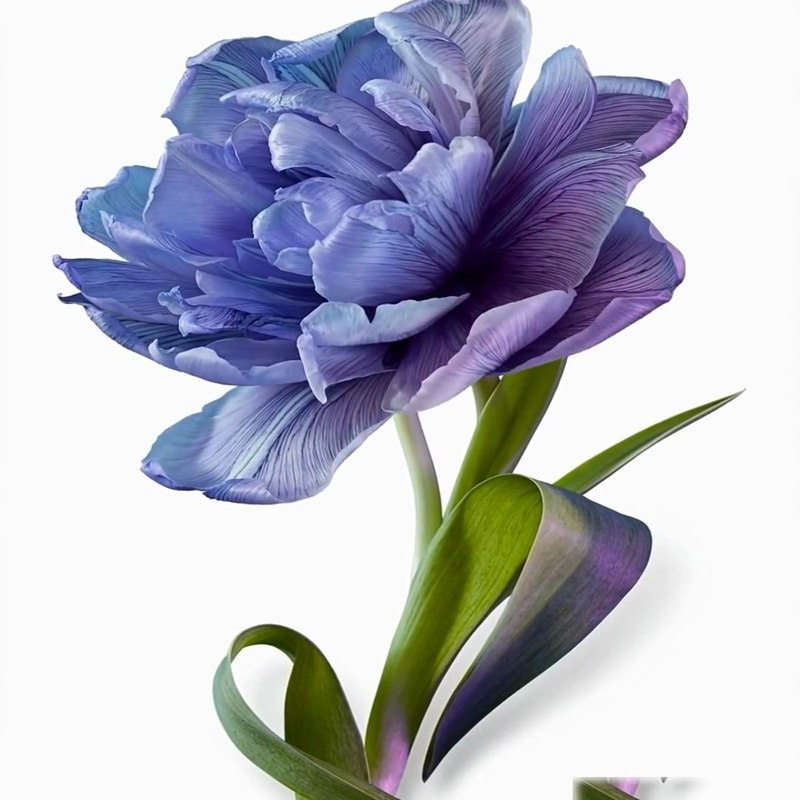
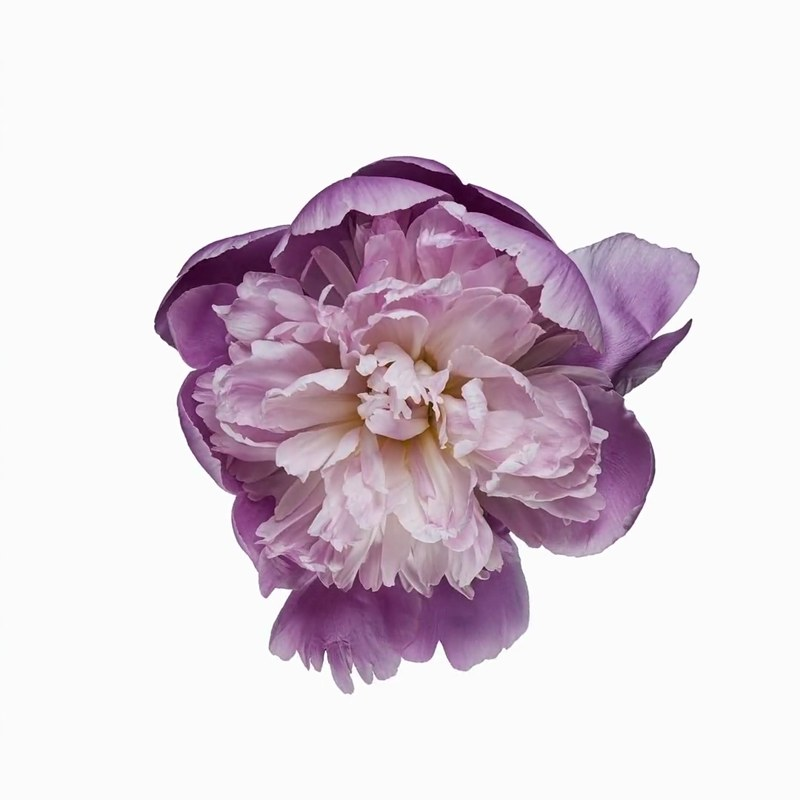
FLORA图换05百合(四周边距22-26%花完整居中,根治'牡丹花底贴视频边框'问题); hero800全图+封面529裁; 哨兵45

diff --git a/index.html b/index.html
@@ -5,7 +5,7 @@
 <script>
 /* 版本哨兵 v37：本行只存在于新版。若 URL 未带本版参数 → 跳转到带参数的新 URL，绕开一切旧缓存 */
 (function(){
-  var V='44';
+  var V='45';
   var q=location.search||'';
   if(q.indexOf('sv='+V)<0){
     location.replace(location.pathname+(q?q+'&':'?')+'sv='+V);
